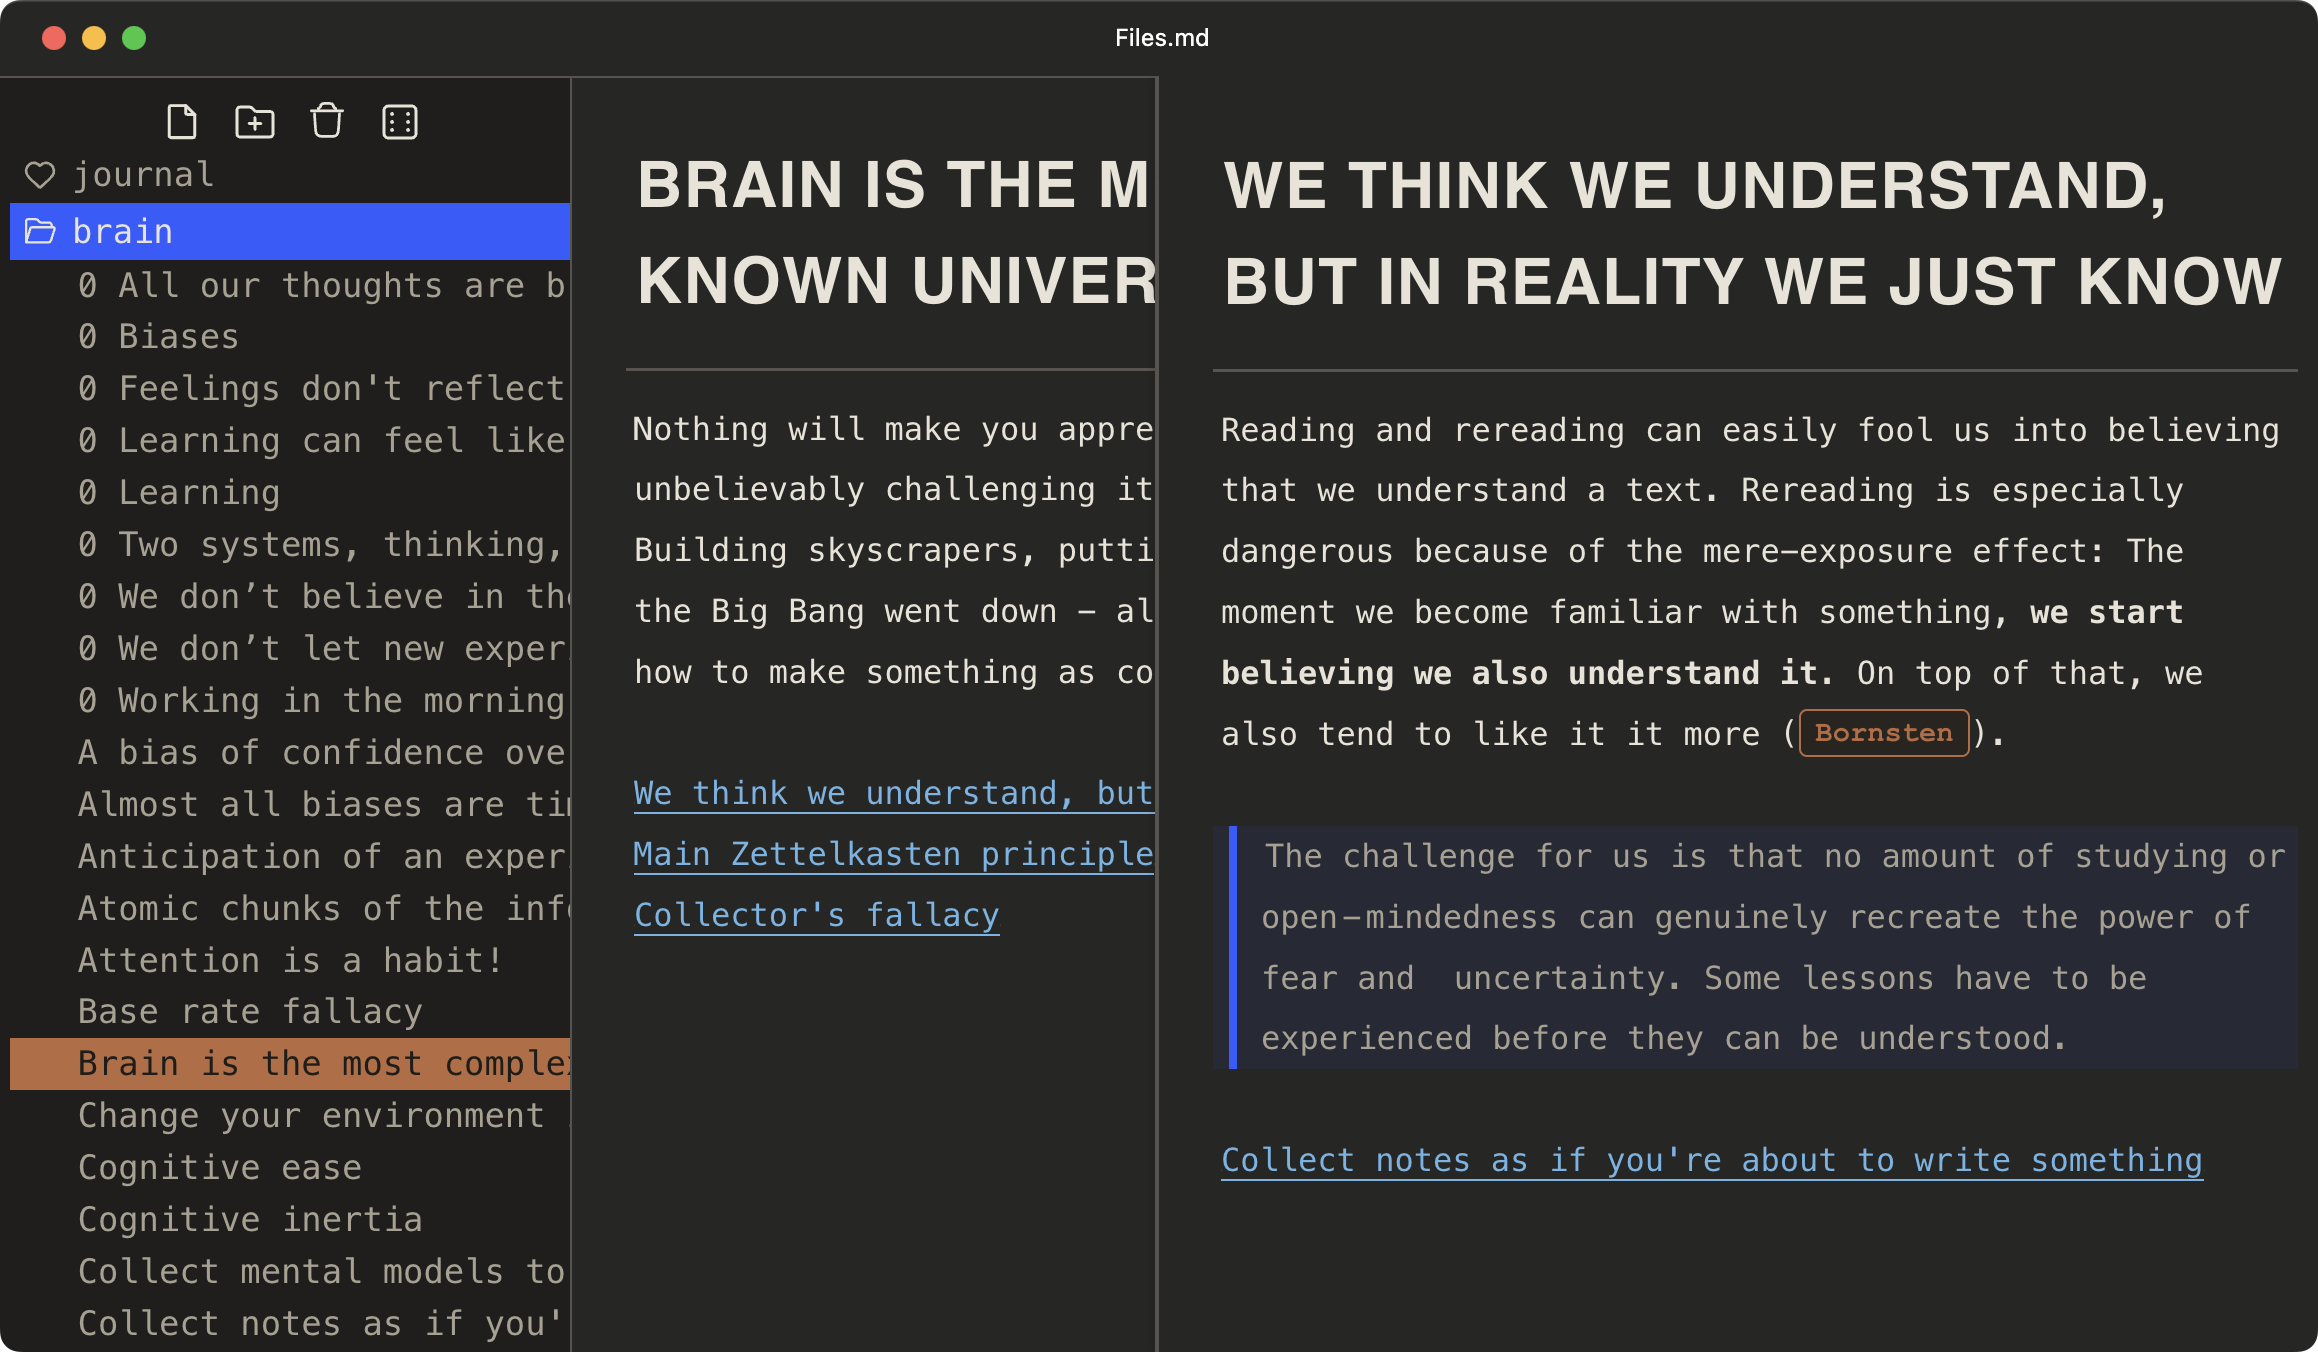
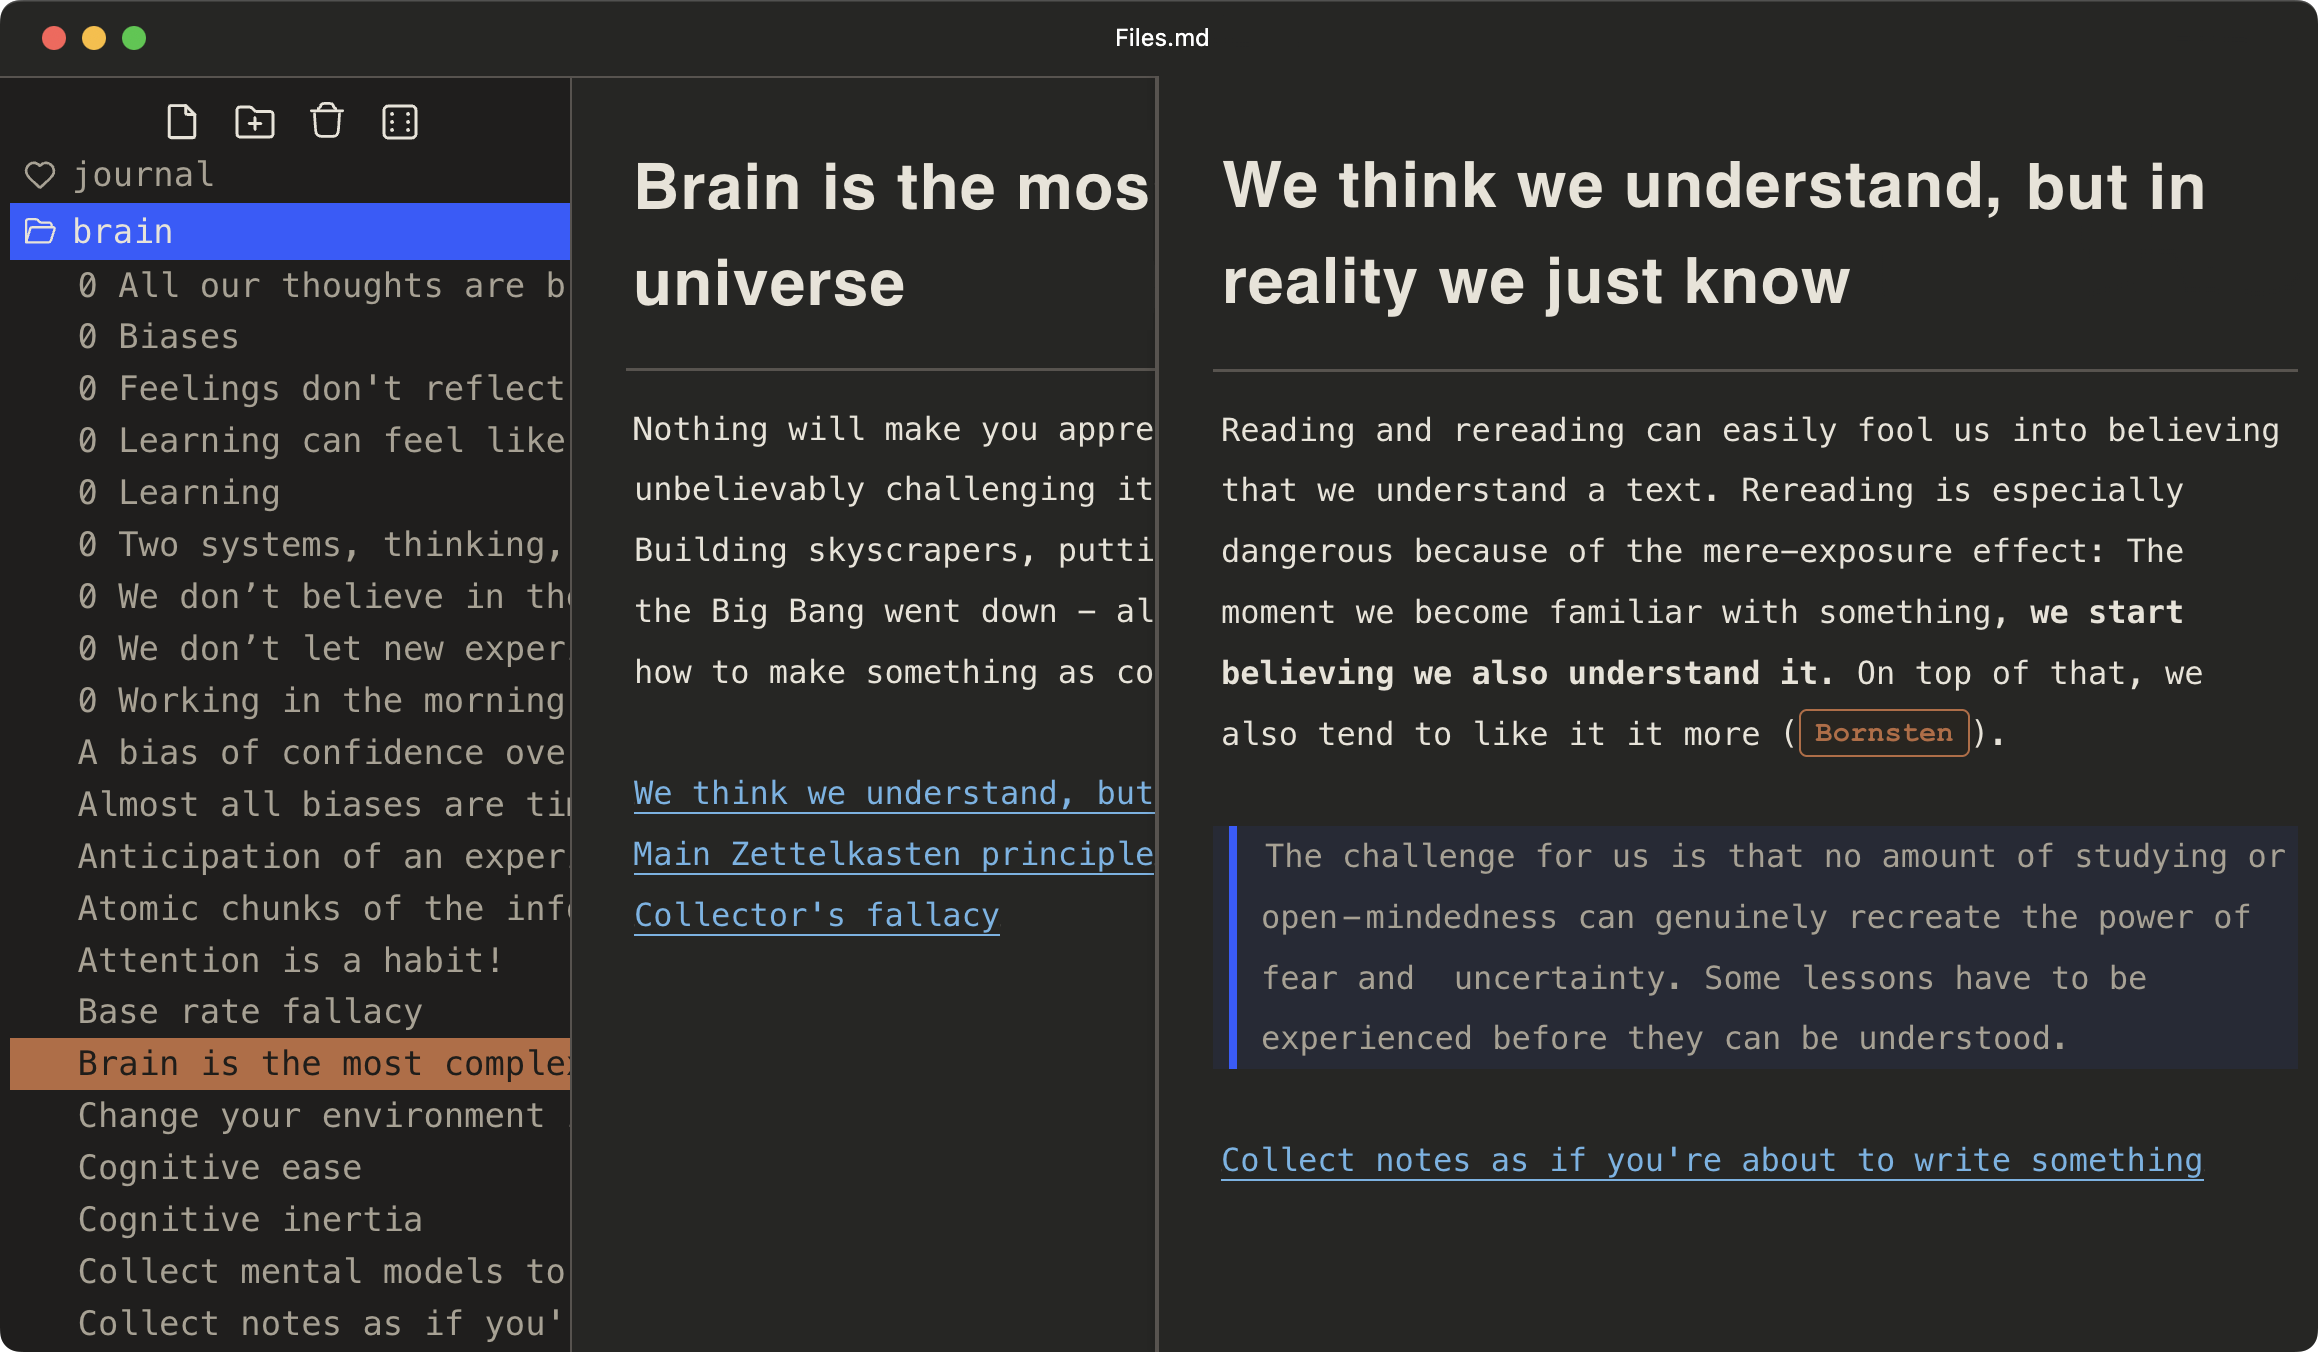
add line comment feature

diff --git a/web/lib/hypermd.js b/web/lib/hypermd.js
@@ -240,6 +240,19 @@ var __assign = (this && this.__assign) || Object.assign || function(t) {
                     if (!state.hmdLinkType && (stream.match(urlRE) || stream.match(emailRE))) {
                         return "url";
                     }
+                    // PATCHED: `// ` line-comment marker. Match only when the
+                    // `//` is at start-of-line (or right after whitespace) AND
+                    // followed by a space, so URL schemes like `http://...`
+                    // aren't touched. Consume the rest of the line so the
+                    // whole comment (including wrap rows) is one token, and
+                    // themes can color it via `.cm-hmd-comment`.
+                    if (stream.peek() === '/' &&
+                        stream.string.charAt(stream.pos + 1) === '/' &&
+                        stream.string.charAt(stream.pos + 2) === ' ' &&
+                        (stream.pos === 0 || /\s/.test(stream.string.charAt(stream.pos - 1)))) {
+                        stream.skipToEnd();
+                        return 'hmd-comment';
+                    }
                 }
                 //#endregion
             }

diff --git a/web/lib/theme-brutal.css b/web/lib/theme-brutal.css
@@ -317,9 +317,9 @@
 
 .cm-s-hypermd-light span.cm-inline-code:not(.cm-formatting):not(.cm-hmd-indented-code) {
     font-family: var(--font-mono-brutal) !important;
-    background: var(--color-neo-lime) !important;
-    color: #1A1A1A !important;
-    border: 1px solid rgba(0, 0, 0, 0.1) !important;
+    background: transparent !important;
+    color: #42A92C !important;
+    border: 1px solid #42A92C !important;
     border-radius: 4px !important;
     padding: 0.2em 0.5em !important;
     font-weight: 600 !important;
@@ -340,6 +340,10 @@
     font-family: var(--font-mono-brutal) !important;
     font-size: 1em !important;
     padding-left: 20px !important;
+}
+
+.cm-hmd-comment {
+    color: var(--color-neo-orange) !important;
 }
 
 /* Images: no border, slightly rounded corners (matching the chat modal). */

diff --git a/web/lib/theme-brutal-dark.css b/web/lib/theme-brutal-dark.css
@@ -299,6 +299,10 @@
     padding-left: 20px !important;
 }
 
+.cm-hmd-comment {
+    color: var(--color-neo-orange) !important;
+}
+
 .cm-s-hypermd-light img.hmd-image {
     border-radius: 7px !important;
     border: none !important;

diff --git a/web/index.html b/web/index.html
@@ -16,7 +16,6 @@
     <link href="lib/hypermd.css?v=" rel="stylesheet">
     <link href="lib/theme-brutal.css?v=" rel="stylesheet">
     <link href="lib/theme-brutal-dark.css?v=" rel="stylesheet">
-<!--    <link href="lib/theme-dark.css?v=" rel="stylesheet">-->
     <link href="chat.css?v=" rel="stylesheet">
     <script src="lib/sidebar.js?v="></script>
     <script src="lib/codemirror.js?v="></script>